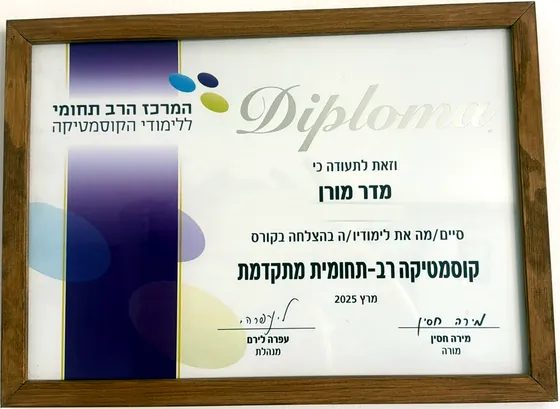
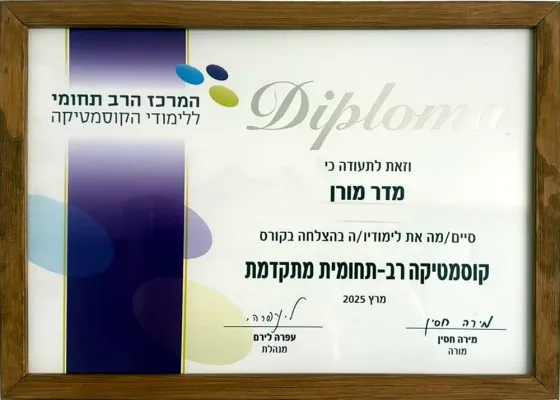
ישור תעודות, איורי קו לשירותים בלי צילום, הסרת זמנים מעמוד הבית
- תעודות: תיקון פרספקטיבה ויחס אחיד (tools/straighten_diplomas.py)
- איורי SVG לעיסוי פנים, שעווה וגבות (tools/make_illustrations.py) במקום הפאנלים
- בצ'יפים של ה-hero ובכרטיסי הטיפולים: בלי משך ושעות, מחיר בלבד

Claude-Session: https://claude.ai/code/session_01X4rWwFUuqa26hzthLyL6sy

diff --git a/src/assets/styles.css b/src/assets/styles.css
@@ -144,7 +144,7 @@ p { margin: 0; }
 
 .tcard { display: block; background: var(--card); border-radius: var(--r); overflow: hidden; text-decoration: none; height: 100%; box-shadow: 0 1px 0 var(--line); }
 .tcard-img { display: block; aspect-ratio: 4 / 5; background: var(--sand); }
-.tcard-img img, .tcard-img .slot, .tcard-img .panel { width: 100%; height: 100%; object-fit: cover; }
+.tcard-img img, .tcard-img .slot { width: 100%; height: 100%; object-fit: cover; }
 .tcard-body { display: grid; gap: 2px; padding: 12px 14px 16px; }
 .tcard h3 { font-size: 1.15rem; }
 .tcard-short { font-size: .85rem; color: var(--muted); }
@@ -154,22 +154,6 @@ p { margin: 0; }
   display: flex; flex-direction: column; align-items: center; justify-content: center; gap: 6px; text-align: center;
   background: linear-gradient(160deg, #efe4d6, #e3d3bf); color: var(--muted); font-size: .8rem; padding: 10px;
 }
-
-/* פאנל מעוצב: במקום צילום שלא עומד ברמה הנדרשת */
-.panel {
-  display: flex; flex-direction: column; align-items: center; justify-content: center; gap: 10px; text-align: center;
-  color: var(--cream); padding: 16px; position: relative; overflow: hidden; background: var(--ink);
-}
-.panel::before {
-  content: ''; position: absolute; inset: 0;
-  background: radial-gradient(120% 90% at 20% 0%, var(--p1), transparent 62%), linear-gradient(160deg, var(--p2), var(--ink));
-}
-.panel > * { position: relative; }
-.panel b { font: 500 clamp(3.2rem, 22vw, 5.5rem)/1 var(--mark); letter-spacing: .04em; opacity: .92; }
-.panel span { font-size: .85rem; letter-spacing: .06em; color: var(--cream-dim); }
-.panel-rose { --p1: #b9786a; --p2: #5a2f2a; }
-.panel-sand { --p1: #c9a57c; --p2: #5a4128; }
-.panel-clay { --p1: #b8643f; --p2: #4a2415; }
 
 .rail-reviews > li { flex-basis: 44%; }
 .review { margin: 0; }
@@ -247,7 +231,7 @@ p { margin: 0; }
 .crumbs a { text-decoration: none; }
 .s-hero { display: grid; gap: 18px; }
 .s-hero-img { border-radius: 26px; overflow: hidden; aspect-ratio: 1 / 1; background: var(--sand); }
-.s-hero-img img, .s-hero-img .slot, .s-hero-img .panel { width: 100%; height: 100%; object-fit: cover; }
+.s-hero-img img, .s-hero-img .slot { width: 100%; height: 100%; object-fit: cover; }
 .s-hero h1 { font-size: clamp(2rem, 9vw, 3rem); letter-spacing: -.03em; }
 .s-hero .lead { margin-top: 10px; color: var(--muted); font-size: 1.05rem; }
 .s-hero .chips { margin: 14px 0 18px; }

diff --git a/tools/make_illustrations.py b/tools/make_illustrations.py
@@ -1,0 +1,161 @@
+"""מייצר את איורי הקו לשירותים שאין להם צילום טוב (SVG, אחיד בסגנון).
+
+שימוש:  python tools/make_illustrations.py
+פלט:    src/assets/img/illus-{facial-massage,waxing,brows}.svg
+"""
+import math
+import random
+from pathlib import Path
+
+OUT = Path(__file__).resolve().parent.parent / 'src/assets/img'
+BG, ARCH, INK, CLAY, SAGE, HONEY, WOOD = '#efe3d3', '#e6d2ba', '#6e3a24', '#b8643f', '#6f7d5c', '#d9a441', '#d8b98c'
+W, H = 800, 1000
+
+
+def frame(body, seed=1):
+    return f'''<svg xmlns="http://www.w3.org/2000/svg" viewBox="0 0 {W} {H}" width="{W}" height="{H}" role="img" aria-hidden="true">
+<rect width="{W}" height="{H}" fill="{BG}"/>
+<path d="M110 {H} V420 A290 290 0 0 1 690 420 V{H} Z" fill="{ARCH}"/>
+<g fill="none" stroke="{INK}" stroke-width="4" stroke-linecap="round" stroke-linejoin="round">
+{body}
+</g></svg>'''
+
+
+def bez(p0, p1, p2, p3, t):
+    u = 1 - t
+    return tuple(u**3 * a + 3 * u * u * t * b + 3 * u * t * t * c + t**3 * d for a, b, c, d in zip(p0, p1, p2, p3))
+
+
+def leaf(x, y, ang, ln, color=SAGE, w=None):
+    w = w or ln * 0.28
+    a = math.radians(ang)
+    ex, ey = x + math.cos(a) * ln, y + math.sin(a) * ln
+    nx, ny = -math.sin(a) * w, math.cos(a) * w
+    mx, my = (x + ex) / 2, (y + ey) / 2
+    return (f'<path d="M{x:.1f} {y:.1f} Q{mx + nx:.1f} {my + ny:.1f} {ex:.1f} {ey:.1f} Q{mx - nx:.1f} {my - ny:.1f} {x:.1f} {y:.1f}Z" '
+            f'fill="{color}" fill-opacity=".85" stroke="{INK}" stroke-width="2.5"/>'
+            f'<path d="M{x:.1f} {y:.1f} L{ex:.1f} {ey:.1f}" stroke="{INK}" stroke-width="2" opacity=".6"/>')
+
+
+def sprig(x, y, ang, n, ln, rnd):
+    """ענף עם עלים לסירוגין."""
+    out = []
+    a = math.radians(ang)
+    ex, ey = x + math.cos(a) * ln * n * 0.55, y + math.sin(a) * ln * n * 0.55
+    out.append(f'<path d="M{x} {y} L{ex:.1f} {ey:.1f}" stroke-width="3.5"/>')
+    for i in range(1, n + 1):
+        t = i / (n + 1)
+        px, py = x + (ex - x) * t, y + (ey - y) * t
+        side = 1 if i % 2 else -1
+        out.append(leaf(px, py, ang + side * (48 + rnd.uniform(-8, 8)), ln * (1 - t * 0.35) * rnd.uniform(.9, 1.1)))
+    out.append(leaf(ex, ey, ang, ln * 0.7))
+    return ''.join(out)
+
+
+def chamomile(x, y, r, rnd):
+    petals = ''.join(
+        f'<ellipse cx="{x + math.cos(a) * r * 1.05:.1f}" cy="{y + math.sin(a) * r * 1.05:.1f}" rx="{r * .62:.1f}" ry="{r * .26:.1f}" '
+        f'transform="rotate({math.degrees(a):.0f} {x + math.cos(a) * r * 1.05:.1f} {y + math.sin(a) * r * 1.05:.1f})" fill="#fbf6ee" stroke-width="2.5"/>'
+        for a in [i * 2 * math.pi / 11 + rnd.uniform(-.06, .06) for i in range(11)])
+    return petals + f'<circle cx="{x}" cy="{y}" r="{r * .5:.1f}" fill="{HONEY}" stroke-width="2.5"/>'
+
+
+def brows():
+    rnd = random.Random(7)
+    parts = []
+    # עין
+    up = ((190, 600), (270, 470), (530, 470), (610, 600))
+    lo = ((205, 612), (300, 690), (500, 690), (595, 612))
+    parts.append(f'<path d="M{up[0][0]} {up[0][1]} C{up[1][0]} {up[1][1]} {up[2][0]} {up[2][1]} {up[3][0]} {up[3][1]}" stroke-width="5"/>')
+    parts.append(f'<path d="M{lo[0][0]} {lo[0][1]} C{lo[1][0]} {lo[1][1]} {lo[2][0]} {lo[2][1]} {lo[3][0]} {lo[3][1]}" stroke-width="3.5"/>')
+    parts.append(f'<path d="M{up[0][0]} {up[0][1]} L{lo[0][0]} {lo[0][1]} M{up[3][0]} {up[3][1]} L{lo[3][0]} {lo[3][1]}" stroke-width="3"/>')
+    parts.append(f'<clipPath id="e"><path d="M{up[0][0]} {up[0][1]} C{up[1][0]} {up[1][1]} {up[2][0]} {up[2][1]} {up[3][0]} {up[3][1]} L{lo[3][0]} {lo[3][1]} C{lo[2][0]} {lo[2][1]} {lo[1][0]} {lo[1][1]} {lo[0][0]} {lo[0][1]}Z"/></clipPath>')
+    parts.append(f'<g clip-path="url(#e)"><circle cx="400" cy="560" r="70" fill="{CLAY}" fill-opacity=".55"/><circle cx="400" cy="560" r="70" stroke-width="3"/>'
+                 f'<circle cx="400" cy="560" r="28" fill="{INK}"/><circle cx="378" cy="538" r="11" fill="#fbf6ee" stroke="none"/></g>')
+    # ריסים
+    for i in range(26):
+        t = 0.06 + 0.88 * i / 25
+        x, y = bez(*up, t)
+        dx, dy = bez(*up, min(1, t + .01))[0] - x, bez(*up, min(1, t + .01))[1] - y
+        n = math.hypot(dx, dy) or 1
+        nx, ny = dy / n, -dx / n
+        ln = 26 + 16 * math.sin(math.pi * t) + rnd.uniform(-3, 3)
+        bend = (t - .5) * 26
+        parts.append(f'<path d="M{x:.1f} {y:.1f} q{nx * ln * .55 + bend * .4:.1f} {ny * ln * .55:.1f} {nx * ln + bend:.1f} {ny * ln:.1f}" stroke-width="3.2"/>')
+    # גבה: שערות מגמישות לאורך קשת
+    cen = ((165, 400), (260, 300), (480, 270), (650, 390))
+    for i in range(380):
+        t = rnd.random()
+        x, y = bez(*cen, t)
+        x2, y2 = bez(*cen, min(1, t + .02))
+        ang = math.atan2(y2 - y, x2 - x)
+        thick = 16 + 44 * math.sin(math.pi * min(1, t * 1.02)) ** .7 * (1 - .3 * t)
+        off = rnd.uniform(-.5, .5) * thick
+        px, py = x - math.sin(ang) * off, y + math.cos(ang) * off
+        ln = 30 + 24 * (1 - t) + rnd.uniform(-4, 4)
+        tilt = ang + math.radians(-52 + 58 * t) + rnd.uniform(-.08, .08)
+        ex, ey = px + math.cos(tilt) * ln, py + math.sin(tilt) * ln
+        cx, cy = px + math.cos(tilt - .25) * ln * .55, py + math.sin(tilt - .25) * ln * .55
+        parts.append(f'<path d="M{px:.1f} {py:.1f} Q{cx:.1f} {cy:.1f} {ex:.1f} {ey:.1f}" stroke="{INK}" stroke-width="{rnd.uniform(2.2, 3.4):.1f}"/>')
+    # עלים בצדדים
+    parts.append(sprig(120, 880, -62, 4, 70, rnd) + sprig(690, 900, -118, 4, 70, rnd))
+    return frame(''.join(parts))
+
+
+def waxing():
+    rnd = random.Random(11)
+    p = []
+    p.append(sprig(160, 940, -70, 5, 82, rnd) + sprig(650, 950, -112, 5, 82, rnd))
+    p.append(chamomile(205, 640, 32, rnd) + chamomile(610, 600, 28, rnd) + chamomile(540, 720, 22, rnd))
+    # צנצנת שעווה
+    p.append(f'<path d="M270 560 C268 700 268 780 300 830 C340 862 460 862 500 830 C532 780 532 700 530 560" fill="{HONEY}" fill-opacity=".9" stroke-width="5"/>')
+    p.append(f'<ellipse cx="400" cy="560" rx="130" ry="34" fill="#f1c968" stroke-width="5"/>')
+    p.append(f'<ellipse cx="400" cy="560" rx="104" ry="23" fill="#e6b34f" stroke-width="3"/>')
+    p.append(f'<path d="M300 640 C298 720 302 780 322 806" stroke="#fbf6ee" stroke-width="7" opacity=".7"/>')
+    p.append(f'<rect x="335" y="690" width="130" height="80" rx="10" fill="#fbf6ee" stroke-width="3.5"/>')
+    p.append(f'<path d="M372 744 q10 -46 28 -34 q18 -12 28 34 M400 744 v-28" stroke="{SAGE}" stroke-width="3.5"/>')
+    # מרית
+    p.append(f'<g transform="rotate(28 420 520)"><rect x="396" y="190" width="52" height="400" rx="26" fill="{WOOD}" stroke-width="5"/>'
+             f'<path d="M412 230 V520 M432 230 V520" stroke-width="2" opacity=".35"/>'
+             f'<path d="M396 520 C396 580 448 580 448 520 L448 560 C448 612 396 612 396 560Z" fill="#f1c968" stroke-width="4"/></g>')
+    return frame(''.join(p))
+
+
+def facial():
+    rnd = random.Random(5)
+    p = []
+    # צוואר וכתפיים
+    p.append(f'<path d="M335 760 C335 820 320 850 250 880 C190 905 170 940 165 1000 M465 760 C465 820 480 850 550 880 C610 905 630 940 635 1000" stroke-width="5"/>')
+    # פנים
+    p.append(f'<path d="M400 258 C292 258 250 340 252 440 C254 560 305 700 400 722 C495 700 546 560 548 440 C550 340 508 258 400 258Z" fill="#f6ecdf" stroke-width="5"/>')
+    # שיער + קוקו
+    p.append(f'<path d="M248 470 C226 330 290 214 400 214 C510 214 574 330 552 470 C540 380 500 318 400 312 C300 318 260 380 248 470Z" fill="{INK}" fill-opacity=".88" stroke-width="4"/>')
+    p.append(f'<circle cx="400" cy="178" r="58" fill="{INK}" fill-opacity=".88" stroke-width="4"/><path d="M360 160 Q400 130 440 160 M368 188 Q400 160 432 188" stroke="{BG}" stroke-width="3" opacity=".5"/>')
+    # עיניים עצומות, גבות, אף, שפתיים
+    for sx in (-1, 1):
+        cx = 400 + sx * 78
+        p.append(f'<path d="M{cx - 38} 462 Q{cx} 486 {cx + 38} 462" stroke-width="4.5"/>')
+        for k in range(5):
+            t = (k + .5) / 5
+            x = cx - 34 + 68 * t
+            y = 462 + 24 * math.sin(math.pi * t) * .72
+            p.append(f'<path d="M{x:.1f} {y:.1f} q{sx * 2 + (t - .5) * 8:.1f} 10 {(t - .5) * 16:.1f} 17" stroke-width="3"/>')
+        p.append(f'<path d="M{cx - 44} 424 Q{cx} {402 - sx * 0} {cx + 44} 428" stroke-width="5"/>')
+    p.append(f'<path d="M400 470 C396 520 384 548 400 560 C410 566 424 560 424 556" stroke-width="3.5"/>')
+    p.append(f'<path d="M358 618 Q380 606 400 614 Q420 606 442 618 Q420 644 400 644 Q380 644 358 618Z" fill="{CLAY}" fill-opacity=".8" stroke-width="3.5"/>')
+    # תנועות עיסוי סביב הלחיים
+    for sx in (-1, 1):
+        for i, r in enumerate((48, 72, 98)):
+            cx, cy = 400 + sx * 215, 560
+            a0, a1 = (200, 330) if sx < 0 else (210, 340)
+            pts = []
+            for a in range(a0, a1, 10):
+                pts.append(f'{cx + math.cos(math.radians(a if sx < 0 else 540 - a)) * r:.1f} {cy + math.sin(math.radians(a)) * r:.1f}')
+            p.append(f'<path d="M{" L".join(pts)}" stroke="{CLAY}" stroke-width="{4 - i * .6:.1f}" opacity="{1 - i * .22:.2f}"/>')
+    p.append(sprig(120, 960, -68, 4, 66, rnd) + sprig(680, 960, -112, 4, 66, rnd))
+    return frame(''.join(p))
+
+
+for name, fn in (('facial-massage', facial), ('waxing', waxing), ('brows', brows)):
+    (OUT / f'illus-{name}.svg').write_text(fn(), encoding='utf-8')
+    print('illus-' + name)

diff --git a/tools/straighten_diplomas.py b/tools/straighten_diplomas.py
@@ -1,0 +1,35 @@
+"""מיישר את צילומי התעודות: מזהה את המסגרת, מתקן פרספקטיבה ומאחד לאותו יחס.
+
+שימוש:  python tools/straighten_diplomas.py   (דורש opencv-python-headless)
+קלט/פלט: src/assets/img/diploma-*-{1000,560}.webp
+"""
+from pathlib import Path
+import cv2
+import numpy as np
+
+IMG = Path(__file__).resolve().parent.parent / 'src/assets/img'
+NAMES = ['diploma-cosmetics', 'diploma-faceclub', 'diploma-shifon']
+W, H = 1000, 714  # יחס אחיד לכל התעודות
+
+
+def order(p):
+    p = np.array(p, dtype=np.float32)
+    s, d = p.sum(1), np.diff(p, axis=1).ravel()
+    return np.array([p[s.argmin()], p[d.argmin()], p[s.argmax()], p[d.argmax()]], dtype=np.float32)  # TL TR BR BL
+
+
+for name in NAMES:
+    # הקובץ הגדול ביותר הקיים (מאפשר להריץ שוב על תוצר קודם)
+    src = max(IMG.glob(f'{name}-*.webp'), key=lambda f: f.stat().st_size)
+    im = cv2.imread(str(src))
+    g = cv2.cvtColor(im, cv2.COLOR_BGR2GRAY)
+    m = cv2.morphologyEx((g < 200).astype(np.uint8) * 255, cv2.MORPH_CLOSE, np.ones((15, 15), np.uint8))
+    c = max(cv2.findContours(m, cv2.RETR_EXTERNAL, cv2.CHAIN_APPROX_SIMPLE)[0], key=cv2.contourArea)
+    quad = cv2.approxPolyDP(c, 0.02 * cv2.arcLength(c, True), True).reshape(-1, 2)
+    assert len(quad) == 4, f'{name}: לא זוהו 4 פינות'
+    M = cv2.getPerspectiveTransform(order(quad), np.float32([[0, 0], [W, 0], [W, H], [0, H]]))
+    out = cv2.warpPerspective(im, M, (W, H), flags=cv2.INTER_CUBIC, borderMode=cv2.BORDER_REPLICATE)
+    for w in (1000, 560):
+        r = out if w == W else cv2.resize(out, (w, round(H * w / W)), interpolation=cv2.INTER_AREA)
+        cv2.imwrite(str(IMG / f'{name}-{w}.webp'), r, [cv2.IMWRITE_WEBP_QUALITY, 82])
+    print(name, 'ok')
